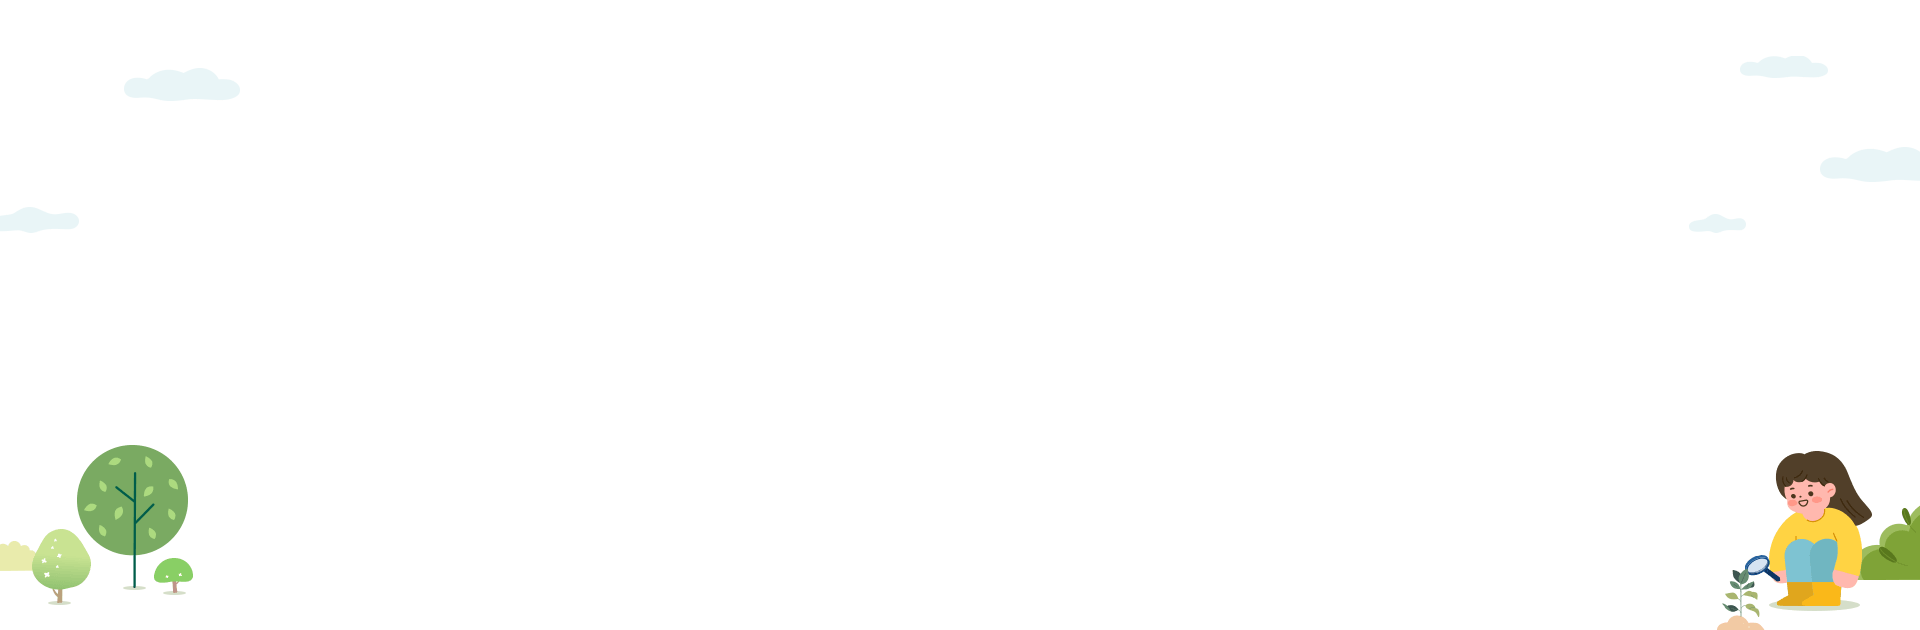
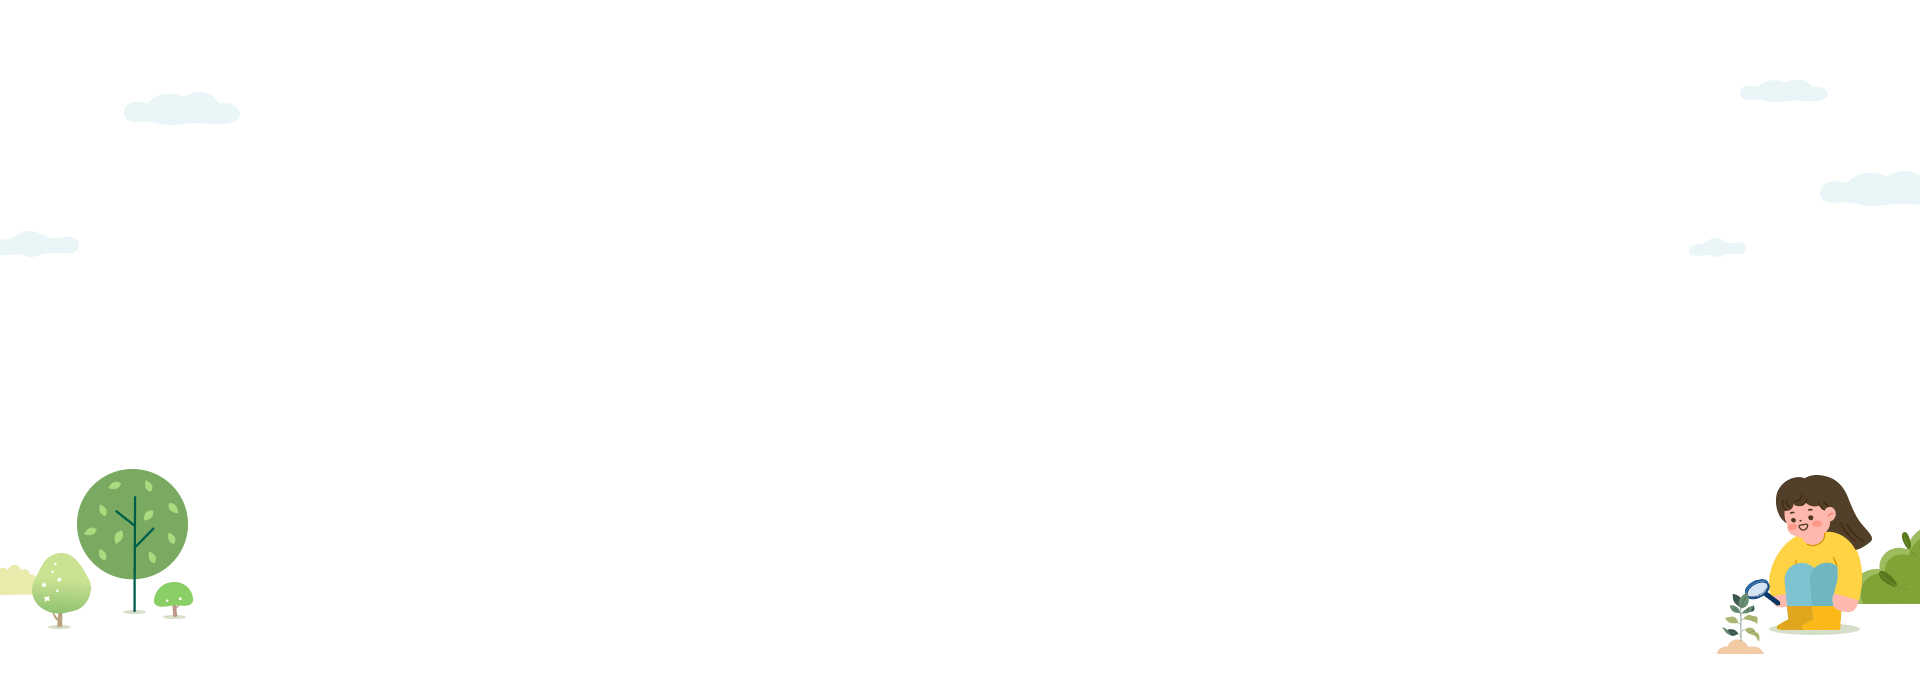
[update] : 메인 pc 완료

Changed region(s): [[0.875, 0.6937, 1.0, 1.0], [0.0, 0.6937, 0.125, 0.9349]]

diff --git a/css/layout.css b/css/layout.css
@@ -1,7 +1,7 @@
 /* wrap - main */
 #wrap{overflow:hidden;padding-top:123px}
 
-/* top quick menu */
+/* header */
 .header{position:fixed;left:0;top:0;right:0;z-index:100}
 .header .top_quickmenu{height:36px;padding:0 30px;font-size:0;text-align:right;background-color: #f6f6f6;box-sizing: border-box}
 .header .top_quickmenu .link_menu{display:inline-block;position:relative;padding:0 10px;font-size:13px;line-height:36px}
@@ -10,7 +10,7 @@
 .header .top_quickmenu .list_quickmenu li{display: inline-block;position:relative;vertical-align: top}
 .header .top_quickmenu .list_quickmenu li + li::after{position:absolute;left:-1px;top:50%;margin-top:-1px;width:2px;height:2px;background-color:#333;content:''}
 /* gnb */
-.wrap_gnb{position:relative;padding:0 40px;background: #fff;text-align: center;font-size:0}
+.wrap_gnb{position:relative;height:87px;padding:0 40px;background: #fff;text-align: center;font-size:0}
 .wrap_gnb .logo{position:absolute;left:40px;top:27px}
 .wrap_gnb .logo .link_logo{display:block;width:265px;height:34px;margin:0 7px;background:url(../img/common/logo.png) no-repeat 0 0;background-size: 100% auto}
 .wrap_gnblist{display: inline-block;position:relative} 
@@ -37,6 +37,7 @@ font-weight:bold}
 .cont_allmenu{display:flex;overflow:hidden;position:relative;width:1171px;height:638px;margin:30px;border-radius:10px;background-color:#fff;box-sizing: border-box}
 .cont_allmenu .area_thumb{flex:0 1 417px;background:url(../img/common/thumb_allmenu.png)no-repeat 50%;background-size:cover}
 .cont_allmenu .area_allmenu{display:flex;align-items: center;padding:20px 30px 20px 53px}
+.cont_allmenu .area_allmenu .list_quickmenu{display: none;}
 .cont_allmenu .list_menu > li > .link_menu{display: inline-block;margin-left:22px;font-size:22px;line-height:23px;font-weight:bold;color:#333}
 .cont_allmenu .list_menu > li + li{margin-top: 60px}
 .cont_allmenu .list_menudep2{margin-top:18px;font-size:0}
@@ -48,14 +49,94 @@ font-weight:bold}
 
 /* footer */
 .footer{background-color: #42443c;}
+.footer_inner{position: relative;max-width: 1200px;margin: 0 auto;padding: 30px 0 40px;}
+.top_footermenu{padding-bottom:14px;margin-bottom:15px;border-bottom: 1px solid rgba(255,255,255,0.2);}
+.top_footermenu .list_menu{font-size:0;margin-left: -18px;}
+.top_footermenu .list_menu li{display: inline-block;position:relative;vertical-align: top;}
+.top_footermenu .list_menu li + li::before{display:inline-block;font-size: 9px;line-height: 40px;color: #8b8b8b;font-weight: 300;content: '|'}
+.top_footermenu .list_menu .link_menu{display: inline-block;padding:0 18px;font-size: 16px;line-height: 40px;color: #d4d4d4;font-weight: 300;vertical-align: top;}
 
+.footer_inner .list_footer{font-size: 0;}
+.footer_inner .list_footer li{padding-top: 13px}
+.footer_inner .list_footer li br.type_mo{display: none;}
+.footer_inner .list_footer li strong{display:inline-block;margin-right:5px;font-size:14px;line-height:1;color: #a4a4a4;vertical-align: top}
+.footer_inner .list_footer li span{display:inline-block;font-size:14px;line-height:1;color:#7f7f7f;vertical-align: top}
+.footer_inner .list_footer li span + span::before{display:inline-block;margin:0 12px;width:1px;font-size: 8px;line-height: 14px;color: #7f7f7f;vertical-align:top;content: '|'}
+.footer_inner .copyright{font-size:14px;line-height: 1;margin-top: 23px;font-weight: 300;color: #7f7f7f}
 
+.footer .wrap_sitemenu{position:absolute;top: 30px;right: 0;}
+.footer .wrap_sitemenu .tit_menu{display: block;position: relative;z-index: 1;width: 200px;height: 40px;padding: 0 18px;font-size: 14px;line-height: 38px;font-weight:500;color: #9c9c9c;border-radius: 5px;border: 1px solid #777;background-color: #42443c;box-sizing: border-box;cursor: pointer;}
+.footer .wrap_sitemenu .tit_menu::after{position: absolute;top: 50%;right: 17px;width: 10px;height: 6px;margin-top: -3px;background: url(../img/common/ico_footer_arr.png) no-repeat 0 0;background-size: cover;content: '';}
+.footer .wrap_sitemenu.on .tit_menu::after {transform: rotate(180deg);}
+.footer .wrap_sitemenu .list_sitemenu{display: none;position: absolute;left:0;right:0;bottom: 0;padding-bottom: 41px;border: 1px solid #777;border-radius: 0 0 5px 5px;background-color: #42443c;box-sizing: border-box;}
+.footer .wrap_sitemenu.on .list_sitemenu{display: block;}
+.footer .list_sitemenu .link_site{display: block;padding:0 17px;font-size: 14px;line-height: 38px;color: #9c9c9c;}
+.footer .list_sitemenu li:hover .link_site{color: #fff;background-color: #545454;}
 
+/* responsive css */
+@media screen and (max-width: 1350px) {
+  /* gnb */
+  .wrap_gnblist{display: none;}
+}
+@media screen and (max-width: 767px) {
+  #wrap{padding-top: 74px;}
+  /* header */
+  .header .top_quickmenu{height: 29px;padding: 0 15px;}
+  .header .top_quickmenu .list_quickmenu{display: none;}
+  .header .top_quickmenu .link_menu{width: 50%;font-size: 11px;line-height: 29px; text-align: center;}
+  .header .top_quickmenu .link_menu + .link_menu::after{left:-0.5px;top:0;width: 1px;height:100%;margin: 0;background-color: #e2e2e2}
+  
+  /* gnb */
+  .wrap_gnb{height: 45px;padding: 0 15px}
+  .wrap_gnb .logo{left: 15px;top: 13px;}
+  .wrap_gnb .logo .link_logo{width: 149.5px;height: 19px;}
+  .wrap_gnb .btn_allmenu{right: 10px;top: 5.5px;width: 20px;padding: 11px 5px;}
+  .wrap_gnb .btn_allmenu .bar_bottom{margin-top: 4.5px;}
+  
+  /* site menu */
+  .cont_allmenu{overflow: visible;display: block;position: absolute;right:0;top:0;width: 71%;height: 100%;margin: 0;border-radius: 0;}
+  .cont_allmenu .link_close{top:0;right: 100%;width:29px;height:29px;background-image: url(../img/common/ico_close_allmenu_mo.png)}
+  .cont_allmenu .area_thumb{display: none;}
+  .cont_allmenu .area_allmenu{display: block;padding: 0;text-align: center;}
+  .cont_allmenu .area_allmenu .list_quickmenu{display: block;font-size: 0;}
+  .cont_allmenu .list_quickmenu li{display: inline-block;position: relative;vertical-align: top;}
+  .cont_allmenu .list_quickmenu li + li {margin-left: 1px;}
+  .cont_allmenu .list_quickmenu li + li::after{position: absolute;left: -1px;top: 50%;margin-top: -3.5px;width: 1px;height: 7px;background-color: #e2e2e2;content: '';}
+  .cont_allmenu .list_quickmenu .link_menu{display: block;padding: 0 9px;font-size: 14px;line-height: 42px;}
+  .cont_allmenu .list_menu {text-align: left;border-top: 1px solid #e2e2e2;}
+  .cont_allmenu .list_menu > li + li{margin-top: 0;}
+  .cont_allmenu .list_menu > li > .link_menu{display: block;position:relative;padding: 0 17px;margin:0;font-size:16px;line-height:47px;color: #333;text-align: left;border-bottom: 1px solid #e2e2e2;}
+  .cont_allmenu .list_menu > li.active > .link_menu {background-color: #84ce44;color: #fff}
+  .cont_allmenu .list_menu > li > .link_menu::after{position: absolute;top: 50%;right:17px;width: 13.5px;height:7.5px;margin-top: -3.25px;background: url(../img/common/ico_allmenu_arr.png) no-repeat;background-size: cover;content: '';}
+  .cont_allmenu .list_menu > li.active > .link_menu::after{background-image: url(../img/common/ico_allmenu_arr_on.png);}
+  .cont_allmenu .list_menudep2{display: none;margin-top: 0;}
+  .cont_allmenu li.active .list_menudep2{display: block}
+  .cont_allmenu .list_menudep2 li{display: block;margin-left: 0;border-bottom: 1px solid #e2e2e2;}
+  .cont_allmenu .list_menudep2 .link_menu{padding: 0 18px;line-height: 36px;color: #333}
+  .cont_allmenu .list_menudep2 li:hover .link_menu{color:#333}
+.cont_allmenu .list_menudep2 li:hover .link_menu::after{display: none;}
 
+  /* footer */
+  .footer_inner{padding: 22px 15px;}
+  .top_footermenu{padding-bottom: 19px;margin-bottom: 15px;}
+  .top_footermenu .list_menu{text-align: center;margin-left:0}
+  .top_footermenu .list_menu .link_menu{padding:0 10px;font-size:11px;line-height:20px;}
+  .top_footermenu .list_menu li + li::before{padding: 0;font-size:7px;line-height:20px;}
+  .top_footermenu .list_menu li + li:nth-child(4)::before{display: none;}
+  .footer_inner .list_footer li{padding-top: 4px;}
+  .footer_inner .list_footer li br.type_mo{display: block;}
+  .footer_inner .list_footer li strong{font-size:11px;line-height:17px;font-weight: 400}
+  .footer_inner .list_footer li span{font-size:11px;line-height:17px;}
+  .footer_inner .list_footer li span + span::before{margin:0 6px}
+  .footer_inner .list_footer li span + span:nth-child(2)::before{display: none;}
+  .footer_inner .copyright{margin-top: 10px;font-size: 11px;}
 
-
-
-
+  .footer .wrap_sitemenu{position: relative;top: auto;width: 163px;height:33px; margin: 18px auto 0;}
+  .footer .wrap_sitemenu .tit_menu{width:100%;height: 100%;padding: 0 15px;font-size:11px;line-height: 31px;border-radius: 2.5px;}
+  .footer .wrap_sitemenu .tit_menu::after{width:8px;height:4.5px;}
+  .footer .list_sitemenu .link_site{padding: 0 15.5px;font-size: 11px;line-height: 30px;}
+  .footer .wrap_sitemenu .list_sitemenu{padding-bottom: 33.5px;}
+}
 
 
 

diff --git a/css/main.css b/css/main.css
@@ -1,5 +1,5 @@
 /* main visual */
-.section_mv{position:relative;height:678px;padding: 0 204px;background: url(../img/main/bg_mv.png) no-repeat 50%;background-size: 100%;box-sizing: border-box;}
+.section_mv{position:relative;height:678px;padding: 0 204px;background: url(../img/main/bg_mv.png) no-repeat center bottom;background-size: 100%;box-sizing: border-box;}
 .section_mv:before{position: absolute;left:0;right:0;bottom:0;z-index:-1;height:106px;background-color:#f2f8ea;content: '';}
 .wrap_mv{position: relative;height:100%;max-width:1512px;margin:0 auto}
 .wrap_mv .slide_mv{overflow:hidden;height: 100%;border-radius: 0 0 150px 0;}
@@ -12,7 +12,7 @@
 .wrap_mv .wrap_progress .page_active .swiper-pagination-bullet-active{display: block;}
 .wrap_mv .wrap_progress .outer_progress{overflow:hidden;position:relative;width:141px;height:2px;margin:0 12px;background-color: rgba(255,255,255,0.6)}
 #progress{position:absolute;left:0;top:0;z-index:1;height:100%;background-color: #fff; }
-.wrap_mv .wrap_arrow{margin-left:35px;font-size:0}
+.wrap_mv .wrap_arrow{margin-left:35px;font-size:0;white-space: nowrap;}
 .wrap_mv .wrap_arrow .swiper-button-prev,
 .wrap_mv .wrap_arrow .swiper-button-next{display:inline-block;position: static;width:11px;height:20px;margin:0;}
 .wrap_mv .wrap_arrow .swiper-button-next{margin-left:17px;}
@@ -49,8 +49,8 @@
 .slide_entrolment .link_item .list_info{margin-top: 70px;}
 .slide_entrolment .link_item .list_info li{display: block;font-size:16px;line-height:28px; color:#333}
 
-.slide_entrolment .swiper-button-prev{width:19px;height:31px;margin:0;}
-.slide_entrolment .swiper-button-next{width:19px;height:31px;margin:0;}
+.slide_entrolment .swiper-button-prev{width:19px;height:31px;margin:0;transform: translateY(-50%);}
+.slide_entrolment .swiper-button-next{width:19px;height:31px;margin:0;transform: translateY(-50%)}
 .swiper-button-next.swiper-button-disabled, .swiper-button-prev.swiper-button-disabled{opacity: 0.4;}
 .slide_entrolment .swiper-button-prev::after,
 .slide_entrolment .swiper-button-next::after{display: inline-block;width:100%;height:100%;font-size:0;background-repeat: no-repeat;background-size: 100%;cursor: pointer;}
@@ -58,12 +58,12 @@
 .slide_entrolment .swiper-button-next::after{background-image: url(../img/main/ico_mainCont_arrNext.png);}
 
 /* notice */
-.section_notice{padding:120px 0}
+.section_notice{padding:120px 15px}
 .section_notice .inner_section{display: flex;max-width: 1200px;margin: 0 auto}
 .section_notice .wrap_tit {position: relative;margin-bottom: 40px;}
 .section_notice .wrap_tit h2 {display: block;font-size: 30px;line-height:30px;color:#000;letter-spacing: -0.05em}
 .section_notice .wrap_tit .link_more{position: absolute;right: 0;top:50%;width:20px;height:20px;background:url(../img/main/ico_link_more.png) no-repeat 0 0;background-size: cover;}
-.section_notice .wrap_mainnotice{flex:0 1 577px;margin-right: 34px;}
+.section_notice .wrap_mainnotice{width: 50%;flex:0 1 577px;margin-right: 34px;}
 .wrap_mainnotice .list_notice li{border-bottom: 1px solid #e2e2e2;}
 .wrap_mainnotice .list_notice .link_notice{display: flex;padding: 23px 0}
 .wrap_mainnotice .list_notice .txt_date{flex:0 0 90px;font-size: 15px;line-height: 1;color: #333;text-align: center;border-right: 1px solid #e2e2e2;}
@@ -72,10 +72,65 @@
 .wrap_mainnotice .list_notice .tit_info{display: block;overflow: hidden;font-size: 18px;line-height: 1;color: #333;text-overflow: ellipsis;white-space: nowrap;}
 .wrap_mainnotice .list_notice .txt_info{display: block;overflow: hidden;margin-top:18px;font-size: 16px;line-height: 1;color: #333;text-overflow: ellipsis;white-space: nowrap;}
 
-.section_notice .wrap_mainpopup{flex:0 1 555px;min-width:0;margin-left: 34px;}
+.section_notice .wrap_mainpopup{width: 50%;flex:0 1 555px;min-width:0;margin-left: 34px;}
 .wrap_mainpopup .slide_popup{overflow: hidden;position: relative;padding-bottom: 35px;}
 .wrap_mainpopup .slide_popup .link_item{display: block;overflow: hidden;border-radius: 10px;}
 .wrap_mainpopup .slide_popup .swiper-pagination-bullet{margin: 0 4px 0 5px;background-color: #d6d6d6;opacity: 1}
 .wrap_mainpopup .slide_popup .swiper-pagination-bullet-active{width:24px;border-radius:3px;background-color: #75b472;}
 
 
+/* responsive css */
+@media screen and (max-width: 767px) {
+  .section_mv{height: 192.5px;padding: 0 15px;background: none;}
+  .section_mv:before{height: 62px;}
+  .wrap_mv .slide_mv{border-radius: 0 0 31px 0;}
+  .wrap_mv .slide_mv .swiper-slide{height: 192.5px}
+  
+  .wrap_mv .area_controller{bottom: 16.5px;}
+  .wrap_mv .wrap_arrow{margin-left: 19px;}
+  .wrap_mv .wrap_arrow .swiper-button-prev, .wrap_mv .wrap_arrow .swiper-button-next{width: 7.5px;height: 13.5px;}
+  .wrap_mv .wrap_arrow .swiper-button-next{margin-left: 11.5px;}
+  .wrap_mv .wrap_progress .outer_progress{width: 94.5px;height:1.5px;margin: 0 7px;}
+  .wrap_mv .wrap_progress .num_page{font-size:12px;line-height: 14px;}
+
+  .section_enrolment{padding: 34px 0 0;}
+  .wrap_tabenrolment{padding: 0 8px;margin:-7px 0;background-color: transparent;font-size: 0;}
+  .wrap_tabenrolment .link_tab{display: inline-block;width: calc(50% - 14px);margin:7px;font-size: 12px;line-height: 32.5px;vertical-align: top;background-color: #fff;}
+  .wrap_tabenrolment .link_tab + .link_tab::after{display: none;}
+  .slide_entrolment{padding: 28px 23px 34px}
+  .slide_entrolment .swiper-slide{border-radius: 10px;}
+  .slide_entrolment .link_item:hover{border:2px solid #fff;box-shadow:none;}
+  .slide_entrolment .swiper-button-prev{left: -5.5px;width:9.5px;height:15.5px;padding: 10px;box-sizing: unset;}
+  .slide_entrolment .swiper-button-next{right: -5.5px;width:9.5px;height:15.5px;padding: 10px;box-sizing: unset;}
+  .slide_entrolment .link_item .badge_state{width:55.5px;font-size:11px;line-height:21px;border-radius: 9px;}
+  .slide_entrolment .link_item .inner_item{padding: 18px 13px}
+  .slide_entrolment .link_item .tit_item{margin-top:12px;font-size:13px;line-height:19px;max-height:57px;-webkit-line-clamp: 3;}
+  .slide_entrolment .link_item .list_info{margin-top: 17.5px;}
+  .slide_entrolment .link_item .list_info li{font-size: 13px;line-height:19px;}
+
+  .section_notice{padding: 41px 15px 45px;}
+  .section_notice .inner_section{display: block;}
+  .section_notice .wrap_mainnotice{width: auto;margin-right: 0}
+  .section_notice .wrap_mainpopup{width: auto;margin-top: 32px;margin-left: 0}
+  .section_notice .wrap_tit{margin-bottom:3.5px;}
+  .section_notice .wrap_tit h2{font-size: 18px;line-height:18px;}
+  .section_notice .wrap_tit .link_more{top: 0;}
+
+  .wrap_mainnotice .list_notice .link_notice{padding: 17px 0}
+  .wrap_mainnotice .list_notice .txt_date{flex: 0 0 74px;font-size: 14px;font-weight: 600;}
+  .wrap_mainnotice .list_notice .txt_date em{padding-bottom:11.5px;font-size:23px;font-weight: bold;}
+  .wrap_mainnotice .list_notice .wrap_info{padding-left: 16.5px;}
+  .wrap_mainnotice .list_notice .tit_info{display: -webkit-box;max-height:34px;font-size:12px;line-height:17px;white-space: normal;text-overflow: ellipsis;-webkit-line-clamp: 2;-webkit-box-orient: vertical;word-break: break-all;}
+  .wrap_mainnotice .list_notice .txt_info{display: -webkit-box;max-height:32px;margin-top:10px;font-size:11px;line-height: 16px;white-space:normal;text-overflow: ellipsis;-webkit-line-clamp: 2;-webkit-box-orient: vertical;word-break: break-all;}
+
+  .section_notice .wrap_mainpopup .wrap_tit{margin-bottom: 21px;}
+  .wrap_mainpopup .slide_popup{padding-bottom: 22.5px;}
+  .swiper-horizontal>.swiper-pagination-bullets, .swiper-pagination-bullets.swiper-pagination-horizontal, .swiper-pagination-custom, .swiper-pagination-fraction{bottom: 0;}
+  .wrap_mainpopup .slide_popup .swiper-pagination-bullet{width:6.5px;height:6.5px;margin:0 3px;}
+  .wrap_mainpopup .slide_popup .swiper-pagination-bullet-active{width:13.5px;height:6.5px;}
+}
+@media screen and (max-width: 380px) {
+  .wrap_mv .area_mvtxt{left:0;right:0;padding: 0 46px;padding-bottom: 20px;transform: translate(0, -50%);}
+
+
+}

diff --git a/layout/footer.html b/layout/footer.html
@@ -1,5 +1,5 @@
 <div class="footer_inner">
-  <div class="top_fmenu">
+  <div class="top_footermenu">
     <span class="screen_out">푸터 빠른메뉴</span>
     <ul class="list_menu">
       <li><a href="#none" class="link_menu">개인정보처리방침</a></li>
@@ -9,30 +9,44 @@
       <li><a href="#none" class="link_menu">뷰어 다운로드</a></li>
       <li><a href="#none" class="link_menu">찾아오시는길</a></li>
     </ul>
-    <div class="wrap_sitemenu">
-      <strong class="tit_menu">FAMILY SITE</strong>
-      <ul class="list_sitemenu">
-        <li><a href="#none" class="link_site">고양누리길</a></li>
-        <li><a href="#none" class="link_site">경기도고양교육지원청</a></li>
-        <li><a href="#none" class="link_site">국립생활지원관</a></li>
-        <li><a href="#none" class="link_site">호수자연생태학교</a></li>
-        <li><a href="#none" class="link_site">하천네트워크</a></li>
-      </ul>
-    </div>
   </div>
   <span class="screen_out">기관정보</span>
   <ul class="list_footer">
     <li>
       <strong>고양생태교육센터</strong>
-      <span>경기도 고양시 일산서구 대학로 315</span>|<span>전화 031-924-7341</span>|<span>팩스 031-924-7344</span>
+      <span>경기도 고양시 일산서구 대학로 315</span><br class="type_mo"><span>전화 031-924-7341</span><span>팩스 031-924-7344</span>
     </li>
     <li>
       <strong>호수자연학습센터</strong>
-      <span>경기도 고양시 일산동구 호수로 731</span>|<span>전화 031-923-3356</span>
+      <span>경기도 고양시 일산동구 호수로 731</span><br class="type_mo"><span>전화 031-923-3356</span>
     </li>
     <li>
-      <span>민원콜센터(시청) 031-909-9000</span>|<span>수화상담(경기도) 070-7947-3939</span>
+      <span>민원콜센터(시청) 031-909-9000</span><br class="type_mo"><span>수화상담(경기도) 070-7947-3939</span>
     </li>
   </ul>
   <p class="copyright">Copyright 2022 GOYANGCITY. All rights reserved.</p>
+  <div class="wrap_sitemenu"> <!-- sitemenu 활성화 시 on 클래스 추가 -->
+    <strong class="tit_menu">FAMILY SITE</strong>
+    <ul class="list_sitemenu">
+      <li><a href="http://cafe.daum.net/Gyrivernetwork/" class="link_site" target="_blank">고양누리길</a></li>
+      <li><a href="http://cafe.daum.net/hosuecoshcool" class="link_site" target="_blank">경기도고양교육지원청</a></li>
+      <li><a href="http://www.nibr.go.kr/main/main.jsp" class="link_site" target="_blank">국립생활지원관</a></li>
+      <li><a href="http://www.kengy.go.kr" class="link_site" target="_blank">호수자연생태학교</a></li>
+      <li><a href="http://nuri.goyang.go.kr" class="link_site" target="_blank">하천네트워크</a></li>
+    </ul>
+  </div>
 </div>
+
+<!-- 푸터관련 공통 script : 헤더를 jquery로 끌어오면 js 파일이 안먹어서 푸터 밑에 작성 -->
+<script>
+$(function(){
+  $('.footer .wrap_sitemenu').click(function(){
+    if($(this).hasClass('on')){
+      $(this).removeClass('on');
+    }else{
+      $(this).addClass('on');
+    }
+  });
+});
+</script>
+<!-- // 푸터 관련 공통 script -->

diff --git a/layout/header.html b/layout/header.html
@@ -66,6 +66,11 @@
   <div class="cont_allmenu">
     <div class="area_thumb"></div>
     <div class="area_allmenu">
+      <ul class="list_quickmenu">
+        <li><a href="#none" class="link_menu">고양시청</a></li>
+        <li><a href="#none" class="link_menu">통합예약</a></li>
+        <li><a href="#none" class="link_menu">고양시의회</a></li>
+      </ul>
       <ul class="list_menu">
         <li>
           <a href="#none" class="link_menu">고양생태환경교육센터</a>
@@ -130,6 +135,25 @@ $(function(){
   $('.cont_allmenu .link_close, .bg_allmenu').click(function(e){
     e.preventDefault();
     $('.wrap_allmenu').hide();
+    $('.cont_allmenu .list_menu > li').removeClass('active');
+  });
+  
+  
+  $('.cont_allmenu .list_menu > li > .link_menu').click(function(e){
+    e.preventDefault();
+    if($(window).innerWidth() < 767){
+      if($(this).parent('li').hasClass('active')){
+        $(this).parent('li').removeClass('active');
+      } else {
+        $('.cont_allmenu .list_menu > li').removeClass('active');
+        $(this).parent('li').addClass('active');
+      }
+    }
+  });
+  $(window).on('load resize', function(){
+    if($(this).innerWidth() > 767){
+      $('.cont_allmenu .list_menu > li').removeClass('active');
+    }
   });
 });
 </script>

diff --git a/css/common.css b/css/common.css
@@ -41,7 +41,7 @@ article, aside, details, figcaption, figure,
 footer, header, hgroup, menu, nav, section {
 	display: block;
 }
-body { min-width: 320px; font-family: 'Noto Sans', sans-serif; color: #000; word-break: keep-all; font-weight: 400; letter-spacing: -0.025em; }
+body { min-width: 320px; font-family: 'Noto Sans', sans-serif; color: #000; word-break: keep-all; font-weight: 400; letter-spacing: -0.25px; }
 h1, h2, h3, h4, h5, h6 {font-family: 'Noto Sans', sans-serif}
 body, div, dl, dt, dd, ul, ol, li, h1, h2, h3, h4, h5, h6, pre, form, fieldset, input, textarea, blockquote, th, td, p, button {margin: 0; padding: 0; -webkit-text-size-adjust: none}
 fieldset, img, abbr, acronym {border: 0 none}

diff --git a/js/common.js b/js/common.js
@@ -51,12 +51,18 @@ $(function(){
   
   // main entrolment slider
   const swiperEntrol = new Swiper('.slide_entrolment', {
-    slidesPerView: 4,
-    spaceBetween: 20,
+    slidesPerView: 2,
+    spaceBetween: 10,
     navigation: {
       nextEl: ".slide_entrolment .swiper-button-next",
       prevEl: ".slide_entrolment .swiper-button-prev"
     },
+    breakpoints: {
+      768: {
+        slidesPerView: 4,
+        spaceBetween: 20,
+      },
+    }
   });
   
   // main popup slider
